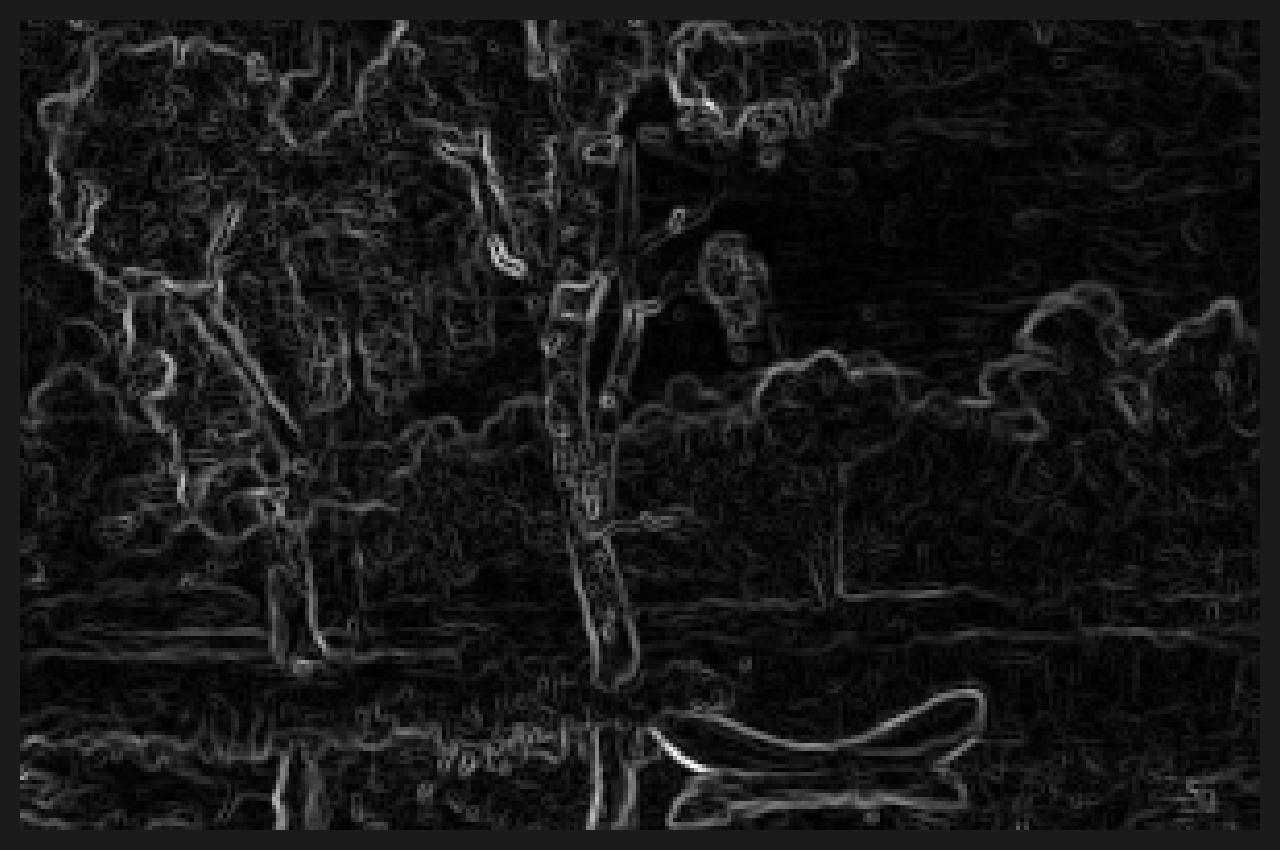
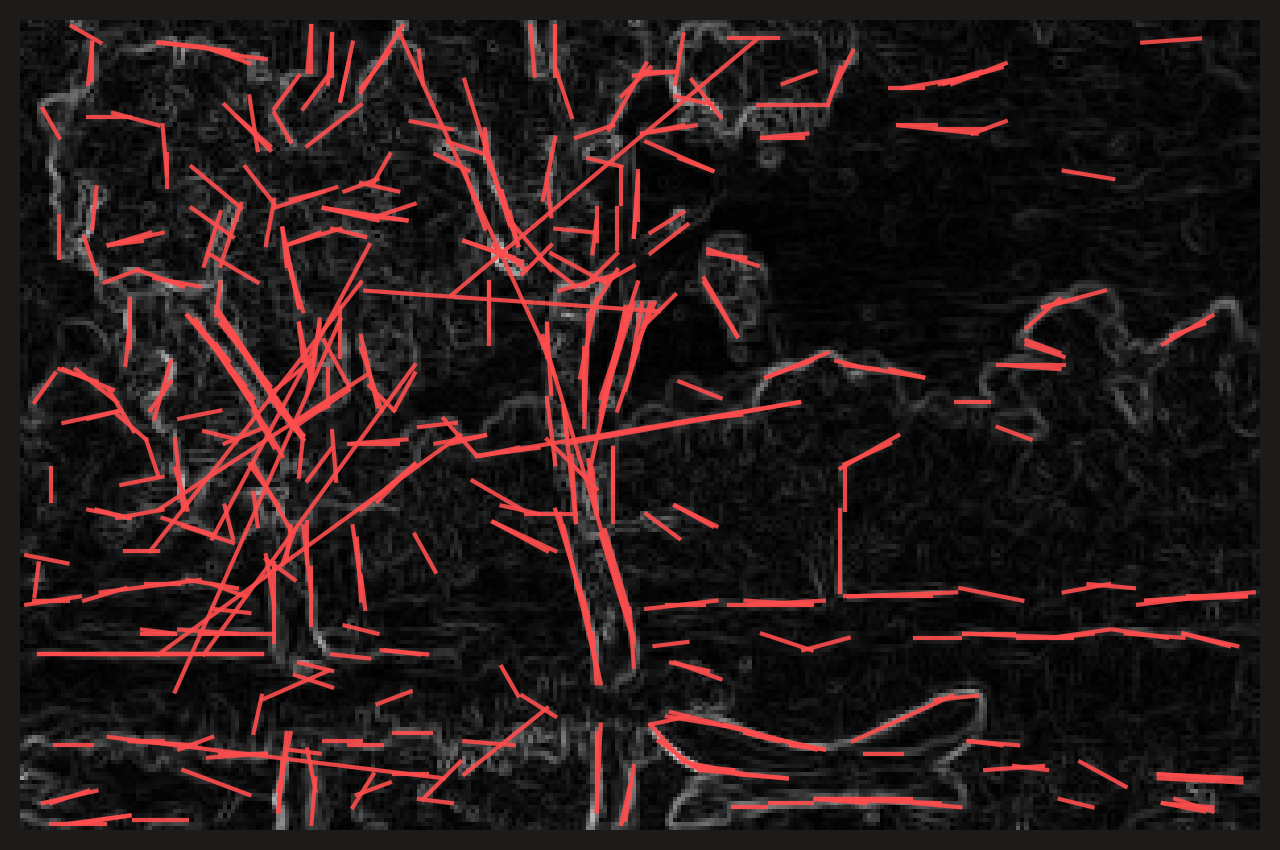
Druga verzija spletne strani

diff --git a/web/src/app/App.tsx b/web/src/app/App.tsx
@@ -51,12 +51,17 @@ export default function App() {
 
   const [isLoading, setIsLoading] = useState(true);
 
+  const [pageView, setPageView] =
+    useState<'timeline' | 'analytics'>(
+      'timeline'
+  );
+
   const [analysisView, setAnalysisView] =
   useState<
     'original' |
     'edges' |
     'saliency' |
-    'texture'
+    'palette'
   >('original');
 
   const timelineRef =
@@ -292,8 +297,60 @@ export default function App() {
       </header>
 
       {/* ========================= */}
+      {/* PAGE SWITCHER */}
+      {/* ========================= */}
+
+      <div className="max-w-7xl mx-auto px-8 pt-8 flex gap-4">
+        {['timeline', 'analytics'].map((view) => (
+          <button
+            key={view}
+            onClick={() =>
+              setPageView(
+                view as typeof pageView
+              )
+            }
+            className={`px-5 py-3 rounded-full border transition-all capitalize ${
+              pageView === view
+                ? 'bg-amber-400 text-black border-amber-400'
+                : 'bg-white/5 border-white/10 text-white hover:bg-white/10'
+            }`}
+          >
+            {view}
+          </button>
+        ))}
+      </div>
+
+      <section className="border-b border-white/10">
+        <div className="max-w-5xl mx-auto px-8 py-24">
+          <div className="max-w-3xl">
+            <div className="text-sm uppercase tracking-[0.4em] text-amber-400 mb-6">
+              Visual Analysis Project
+            </div>
+
+            <h2 className="text-6xl leading-tight font-light">
+              Exploring Edvard Munch through
+              colour, texture and form.
+            </h2>
+
+            <p className="mt-8 text-lg text-white/60 leading-relaxed">
+              This interactive archive combines
+              computer vision and art history
+              to analyse Edvard Munch's paintings
+              through dominant colours,
+              saliency maps, texture metrics,
+              edge structures and temporal trends
+              across his artistic career.
+            </p>
+          </div>
+        </div>
+      </section>
+
+      {/* ========================= */}
       {/* MAIN SECTION */}
       {/* ========================= */}
+
+      {pageView === 'timeline' && (
+        <>
 
       <main className="max-w-7xl mx-auto px-8 py-12">
         <AnimatePresence mode="wait">
@@ -339,27 +396,28 @@ export default function App() {
 
                 <div className="absolute top-6 left-6 flex gap-2 z-20">
                   {[
-                    'original',
-                    'edges',
-                    'saliency',
-                    'texture'
-                  ].map((mode) => (
-                    <button
-                      key={mode}
-                      onClick={() =>
-                        setAnalysisView(
-                          mode as typeof analysisView
-                        )
-                      }
-                      className={`px-4 py-2 rounded-full text-sm backdrop-blur-md border transition-all ${
-                        analysisView === mode
-                          ? 'bg-amber-400 text-black border-amber-400'
-                          : 'bg-black/40 text-white border-white/10 hover:bg-white/10'
-                      }`}
-                    >
-                      {mode}
-                    </button>
-                  ))}
+                  'original',
+                  'edges',
+                  'saliency',
+                  'palette'
+                ].map((mode) => (
+                  <button
+                    key={mode}
+                    onClick={() =>
+                      setAnalysisView(
+                        mode as typeof analysisView
+                      )
+                    }
+                    className={`px-4 py-2 rounded-full text-sm backdrop-blur-md border transition-all ${
+                      analysisView === mode
+                        ? 'bg-amber-400 text-black border-amber-400'
+                        : 'bg-black/40 text-white border-white/10 hover:bg-white/10'
+                    }`}
+                  >
+                    {mode}
+                  </button>
+                ))}
+
                 </div>
 
                 {/* ARROWS */}
@@ -668,6 +726,44 @@ export default function App() {
           </AnimatePresence>
         </div>
       </section>
+        </>
+     )}
+     {pageView === 'analytics' && (
+      <section className="max-w-7xl mx-auto px-8 py-20">
+        <div className="mb-16">
+          <h2 className="text-5xl font-light">
+            Collection Analytics
+          </h2>
+
+          <p className="mt-4 text-white/50 max-w-2xl">
+            Statistical and visual analysis
+            across Edvard Munch's complete
+            body of work.
+          </p>
+        </div>
+
+        <div className="grid lg:grid-cols-2 gap-10">
+
+          {[
+            'colors_over_time.png',
+            'texture_over_time.png',
+            'palette_evolution.png',
+            'edge_density.png'
+          ].map((graph) => (
+            <div
+              key={graph}
+              className="rounded-3xl overflow-hidden border border-white/10 bg-black/20 p-6"
+            >
+              <img
+                src={`/analytics/${graph}`}
+                className="w-full rounded-2xl"
+              />
+            </div>
+          ))}
+
+        </div>
+      </section>
+    )}
     </div>
   );
 }

diff --git a/web/src/styles/index.css b/web/src/styles/index.css
@@ -1,3 +1,12 @@
 @import './fonts.css';
 @import './tailwind.css';
 @import './theme.css';
+
+.no-scrollbar::-webkit-scrollbar {
+  display: none;
+}
+
+.no-scrollbar {
+  -ms-overflow-style: none;
+  scrollbar-width: none;
+}

diff --git a/web/src/styles/globals.css b/web/src/styles/globals.css
@@ -1,0 +1,8 @@
+.no-scrollbar::-webkit-scrollbar {
+  display: none;
+}
+
+.no-scrollbar {
+  -ms-overflow-style: none;
+  scrollbar-width: none;
+}

diff --git a/src/analiza_ene_slike.py b/src/analiza_ene_slike.py
@@ -254,17 +254,33 @@ def save_analysis_images(analysis):
     plt.close()
 
     # =========================
-    # EDGE MAP
+    # EDGE MAP + HOUGH LINES
     # =========================
 
-    plt.figure(figsize=(8, 8), facecolor=FIGURE_BG)
+    fig, ax = plt.subplots(
+        figsize=(8, 8),
+        facecolor=FIGURE_BG
+    )
 
-    plt.imshow(
+    ax.imshow(
         analysis["edges"],
         cmap="gray"
     )
 
-    plt.axis("off")
+    # draw detected lines
+    for (x0, y0), (x1, y1) in analysis.get(
+        "hough_lines",
+        []
+    ):
+        ax.plot(
+            [x0, x1],
+            [y0, y1],
+            color="#ff4d4d",
+            linewidth=1.5,
+            alpha=0.9
+        )
+
+    ax.axis("off")
 
     plt.savefig(
         os.path.join(out_dir, "edges.png"),
@@ -296,6 +312,56 @@ def save_analysis_images(analysis):
     )
 
     plt.close()
+
+    # =========================
+    # UNIFIED COLOR PALETTE
+    # =========================
+
+    palette = analysis.get("color_palette", [])
+
+    if palette:
+        fig, ax = plt.subplots(
+            figsize=(10, 3),
+            facecolor=FIGURE_BG
+        )
+
+        ax.set_facecolor(FIGURE_BG)
+
+        total = sum(
+            c["frequency"] for c in palette
+        )
+
+        current_x = 0
+
+        for color in palette:
+            width = color["frequency"] / total
+
+            rect = plt.Rectangle(
+                (current_x, 0),
+                width,
+                1,
+                facecolor=color["rgb"],
+                edgecolor=FIGURE_BG,
+                linewidth=2
+            )
+
+            ax.add_patch(rect)
+
+            current_x += width
+
+        ax.set_xlim(0, 1)
+        ax.set_ylim(0, 1)
+
+        ax.axis("off")
+
+        plt.savefig(
+            os.path.join(out_dir, "palette.png"),
+            dpi=200,
+            bbox_inches="tight",
+            facecolor=FIGURE_BG
+        )
+
+        plt.close()
 
     # =========================
     # TEXTURE BAR CHART
